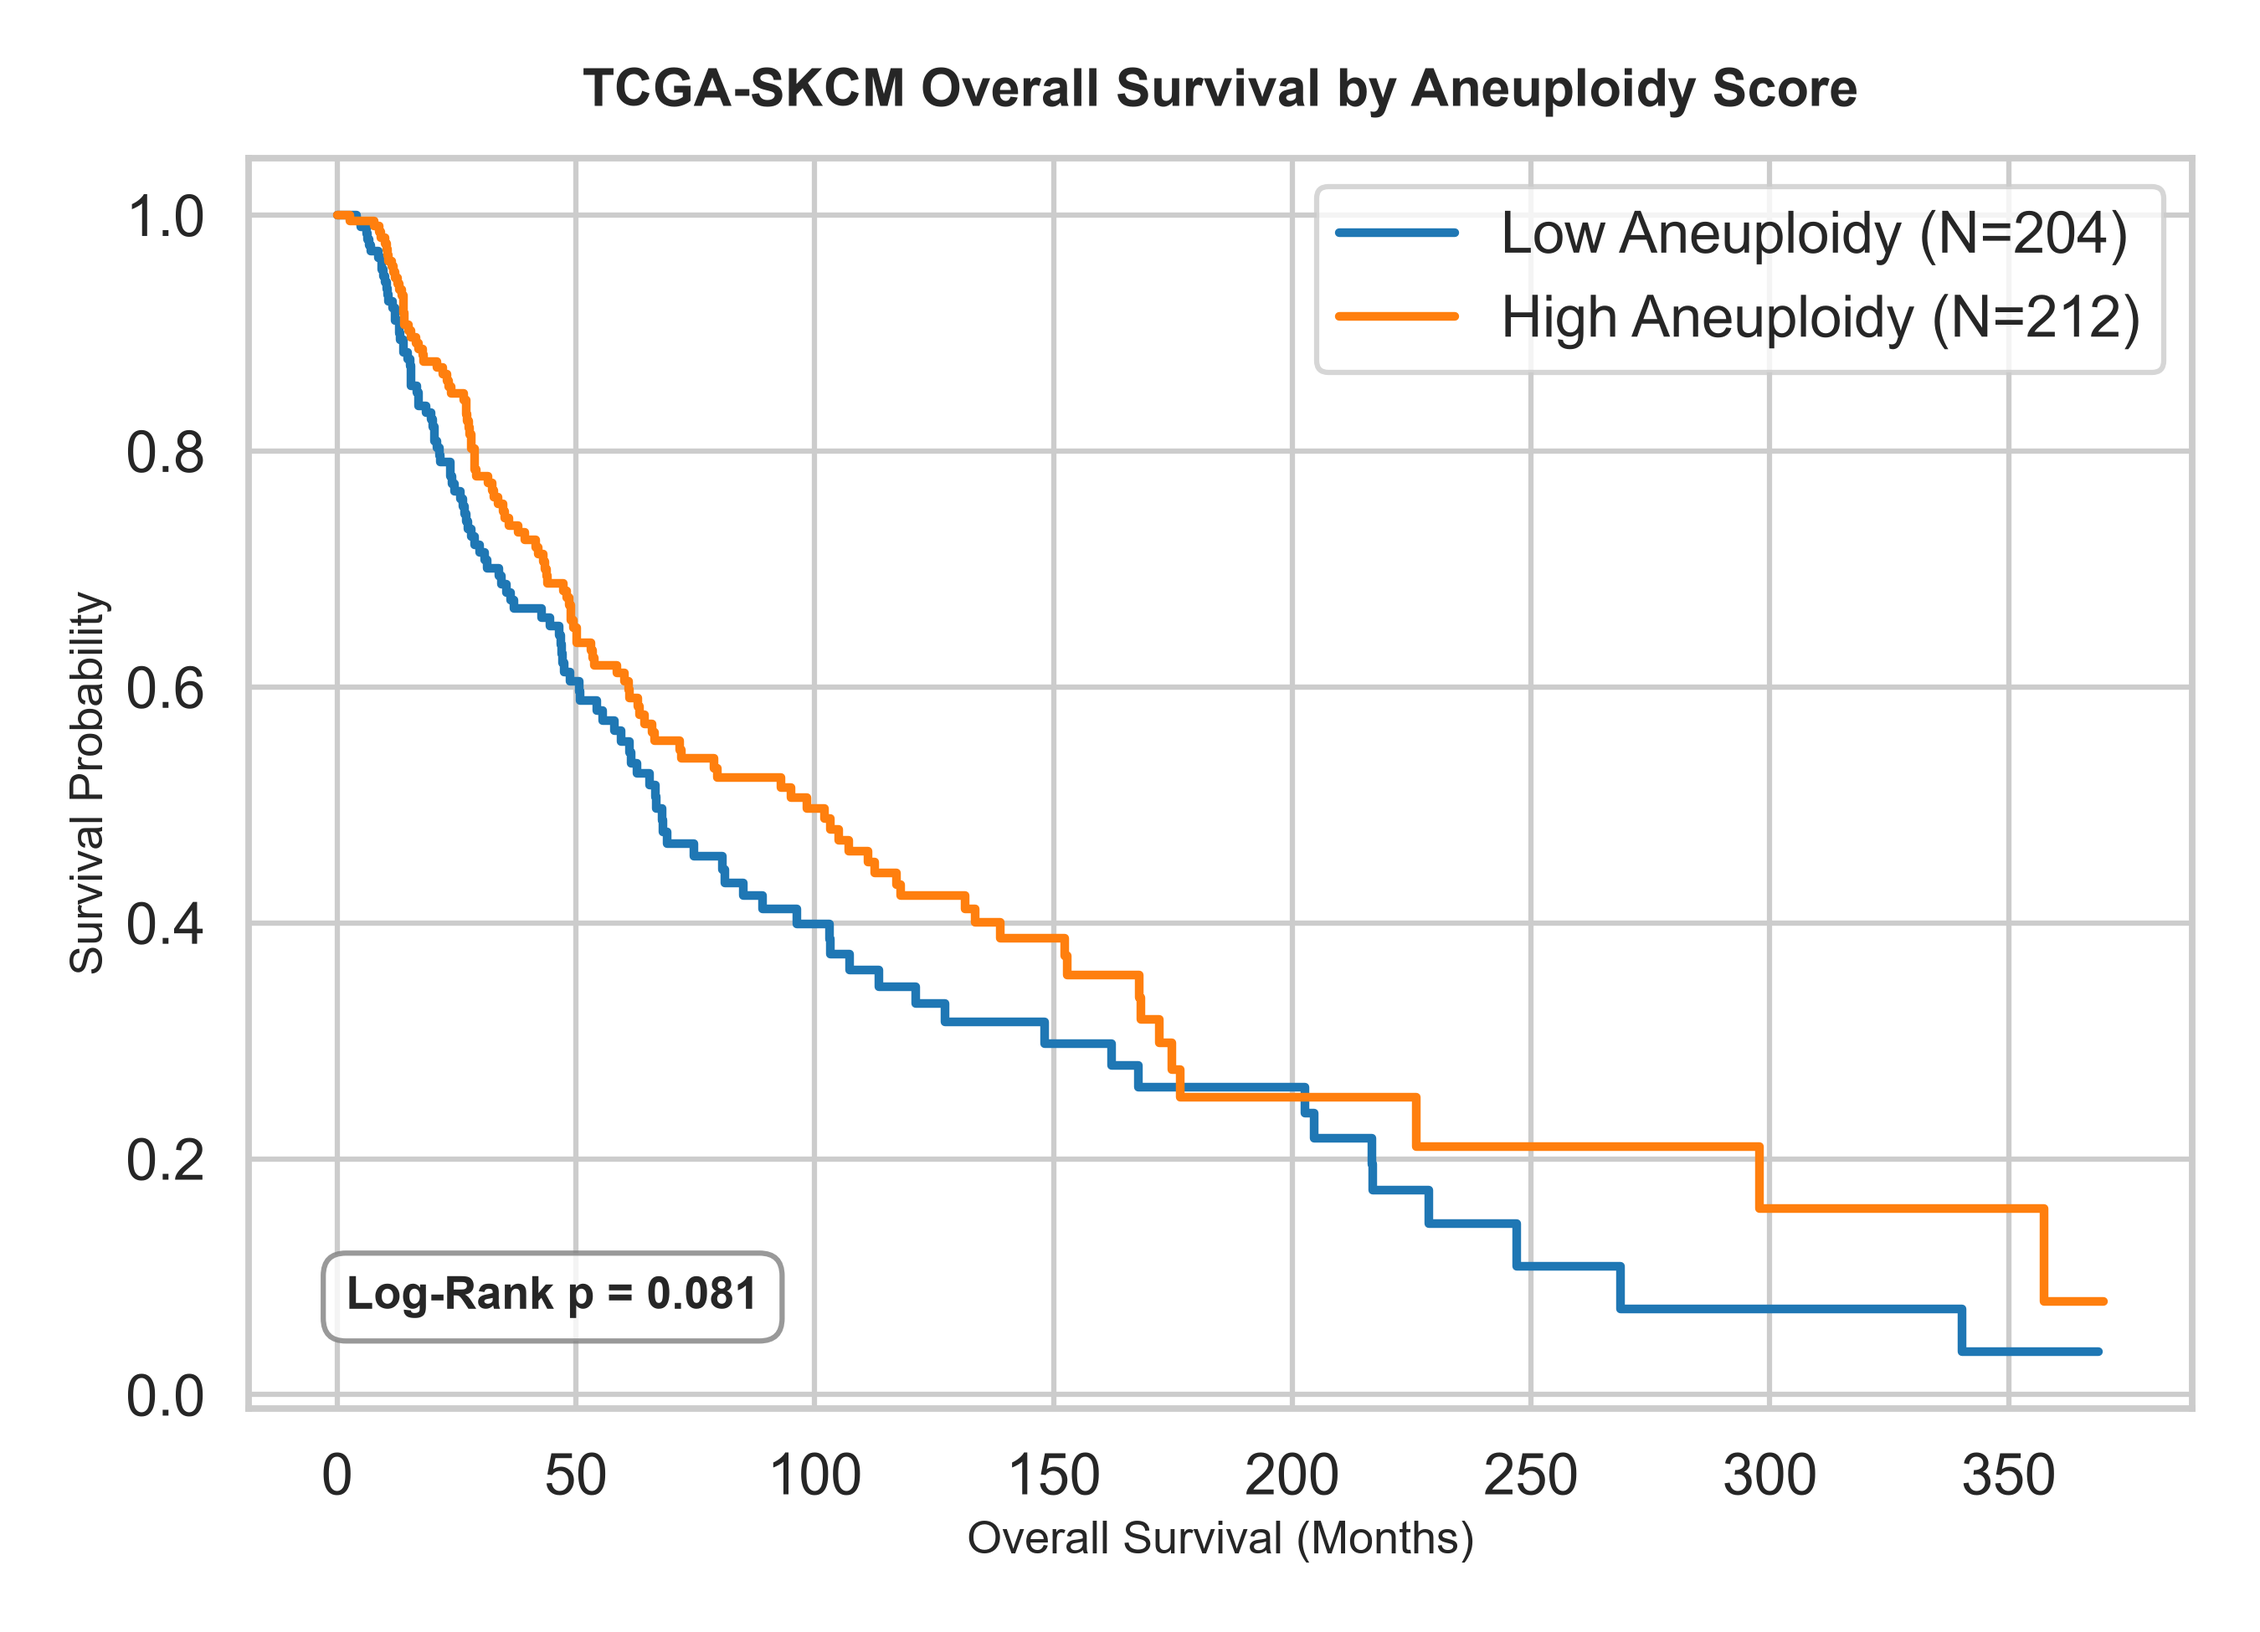
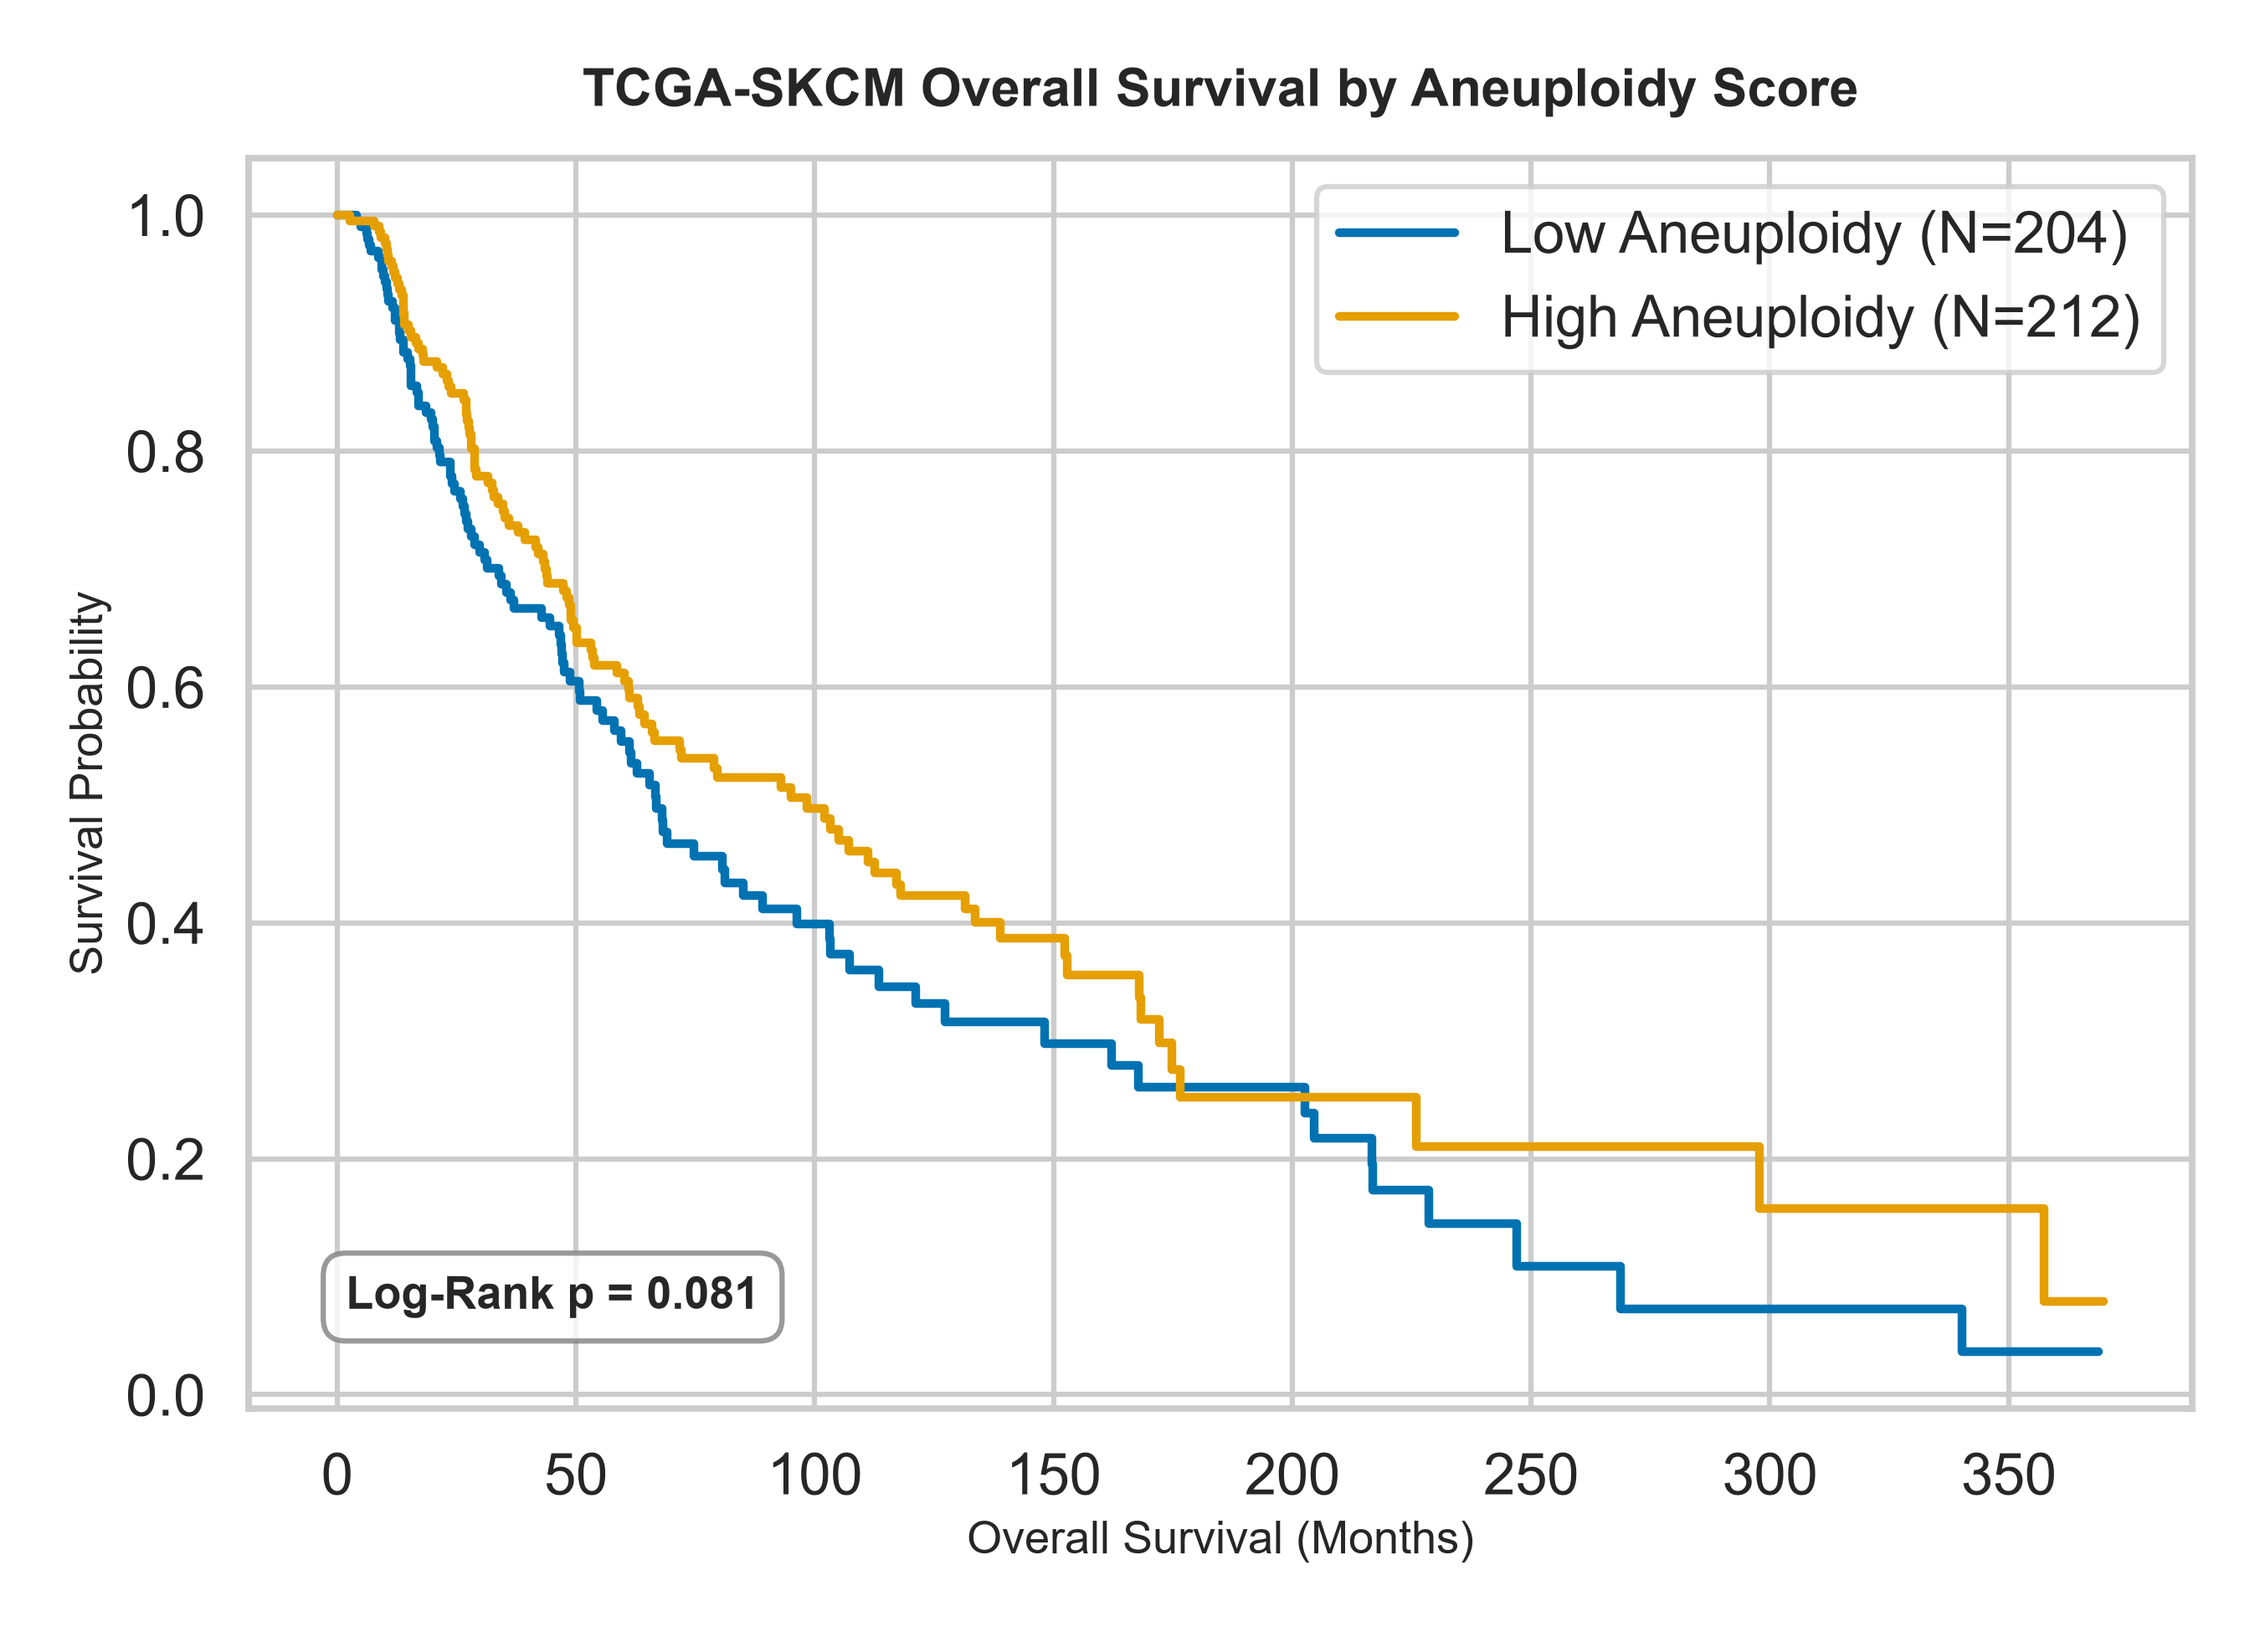
docs(reports): update color text references and plot styles in cohort_characteristics_genomic.md to Okabe-Ito standard

diff --git a/q1-response-predictor/scripts/biomarkers/run_extended_biomarkers.py b/q1-response-predictor/scripts/biomarkers/run_extended_biomarkers.py
@@ -369,11 +369,13 @@ def main():
     high_mask = df_tcga_survival['Aneu_Group'].str.startswith('High')
     low_mask = df_tcga_survival['Aneu_Group'].str.startswith('Low')
     
+    from src.styles import COHORT_PALETTE
+
     kmf.fit(df_tcga_survival.loc[low_mask, 'OS_MONTHS'], df_tcga_survival.loc[low_mask, 'os_status_clean'], label=f"Low Aneuploidy (N={low_mask.sum()})")
-    kmf.plot_survival_function(ax=ax, color="#1f77b4", ci_show=False, linewidth=2.5)
+    kmf.plot_survival_function(ax=ax, color=COHORT_PALETTE["Liu 2019"], ci_show=False, linewidth=2.5) # Blue
     
     kmf.fit(df_tcga_survival.loc[high_mask, 'OS_MONTHS'], df_tcga_survival.loc[high_mask, 'os_status_clean'], label=f"High Aneuploidy (N={high_mask.sum()})")
-    kmf.plot_survival_function(ax=ax, color="#ff7f0e", ci_show=False, linewidth=2.5)
+    kmf.plot_survival_function(ax=ax, color=COHORT_PALETTE["Hugo 2016"], ci_show=False, linewidth=2.5) # Orange
     
     lr_res = logrank_test(
         df_tcga_survival.loc[high_mask, 'OS_MONTHS'], df_tcga_survival.loc[low_mask, 'OS_MONTHS'],

diff --git a/q1-response-predictor/reports/pillar-1-cohorts-and-preprocessing/cohort_characteristics_genomic.md b/q1-response-predictor/reports/pillar-1-cohorts-and-preprocessing/cohort_characteristics_genomic.md
@@ -74,7 +74,7 @@ TMB Distributions
 Neoantigen vs TMB
 
 ### Key Observations
-*   **TMB as a Predictor**: In all three immunotherapy cohorts, responders (CR/PR, green boxes) exhibit a higher pre-treatment TMB distribution than non-responders (PD, red boxes). TMB is a significant predictor of response when cohorts are pooled ($p = 0.079$, ROC AUC = 0.577).
+*   **TMB as a Predictor**: In all three immunotherapy cohorts, responders (CR/PR, bluish green boxes) exhibit a higher pre-treatment TMB distribution than non-responders (PD, vermillion red boxes). TMB is a significant predictor of response when cohorts are pooled ($p = 0.079$, ROC AUC = 0.577).
 *   **TCGA Distribution**: The reference cohort shows a classical log-normal TMB distribution with a median of **15.23 mutations/Mb**. A substantial proportion of patients lie above the standard FDA clinical cutoff of **10.0 mutations/Mb** for high-TMB status, validating the presence of a strong ultraviolet (UV) signature in cutaneous melanomas.
 *   **Neoantigen Collinearity**: There is a strong linear relationship between nonsynonymous TMB and predicted neoantigen load ($r = 0.756$, $p = 2.39 \times 10^{-34}$). Total predicted neoantigen load shows moderate predictive utility for response (ROC AUC = 0.545, Mann-Whitney $p = 0.298$). The extreme correlation confirms that these two metrics are collinear, making TMB a suitable surrogate for mutational neoantigen burden in downstream modeling.
 
@@ -141,5 +141,5 @@ The complete co-mutation (oncoplot) landscape for individual patients across all
 *   **MAPK Driver Mutual Exclusivity**: There is high mutual exclusivity between the two primary MAPK pathway drivers, _BRAF_ and _NRAS_ (only 3 overlapping cases in Liu 2019, 0 in Hugo/Riaz). This aligns with the classical understanding that _BRAF_ and _NRAS_ mutations represent redundant and mutually exclusive routes for activating the RAS-RAF-MEK-ERK signaling cascade.
 *   **NF1 Mutational Overlap**: Unlike _BRAF_ and _NRAS_, mutations in the tumor suppressor _NF1_ show significant overlap with both drivers (9 cases overlap with BRAF in Liu, 2 in Hugo). While some of these represent co-occurring driver events, many of these _NF1_ mutations are passenger events. _NF1_ is a large gene and highly susceptible to random somatic passenger mutations in melanoma, which features a high TMB driven by UV-light exposure.
 *   **Targeted Resistance Profile**: Core genes related to antigen presentation (_B2M_) and interferon signaling (_JAK1_, _JAK2_) show low baseline mutation rates. These mutations are rare in pre-treatment biopsies, indicating that genetic disruption of interferon signaling is mostly an acquired resistance mechanism rather than a common baseline driver.
-*   **Cohort Distribution**: The Cohort track shows that _BRAF_ and _NRAS_ mutations are evenly distributed across **Liu 2019** (purple) and **Hugo 2016** (orange). The corrected patient mapping for **Riaz 2017** (teal) is clearly visible, showing representative driver mutation profiles that match the other cohorts.
-*   **No Driver Subtype Response Bias**: Responders (green blocks in the Response track) are distributed across all driver mutation subtypes (BRAF, NRAS, NF1, and Triple-WT). This visually confirms that driver mutation status itself is not predictive of anti-PD-1 clinical response.
+*   **Cohort Distribution**: The Cohort track shows that _BRAF_ and _NRAS_ mutations are evenly distributed across **Liu 2019** (blue) and **Hugo 2016** (orange). The corrected patient mapping for **Riaz 2017** (reddish purple) is clearly visible, showing representative driver mutation profiles that match the other cohorts.
+*   **No Driver Subtype Response Bias**: Responders (bluish green blocks in the Response track) are distributed across all driver mutation subtypes (BRAF, NRAS, NF1, and Triple-WT). This visually confirms that driver mutation status itself is not predictive of anti-PD-1 clinical response.
